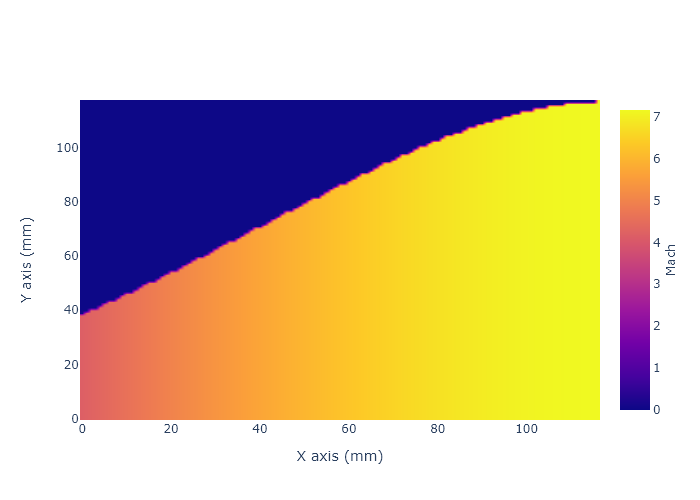
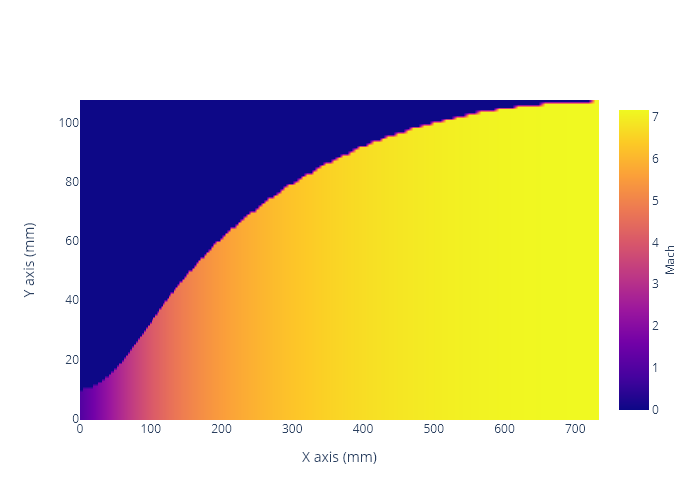
Adds 'x' and 'y' coordinates for the heatmap

diff --git a/nozzle.py b/nozzle.py
@@ -10,7 +10,7 @@ Definição inicial de constantes
 
 GAMMA [-]: Razão de calores específicos do gás
 M_TEST [-]: Número de Mach na seção de testes
-Y_0 [-]: Raio na garganta do bocal, normalizado pelo comprimento do bocal
+Y_0 [mm]: Raio na garganta do bocal
 """
 
 GAMMA = 1.4
@@ -58,15 +58,22 @@ def main():
     # plt.yticks(np.arange(-y_final_curve[-1]*1.25, y_final_curve[-1]*1.25, 5))
     plt.show()
 
+    throat_index = np.where(y_initial_curve == 10)[0][0]
+
     # Quasi Unidimensional
-    graph_y_points = list(float_range(0, max(y_final_curve),max(y_final_curve)/len(y_final_curve)))
+    graph_y_points = list(float_range(0, max(y_final_curve), max(y_final_curve)/len(y_final_curve)))
     mach_matriz = []
     for i in range(len(graph_y_points)):
-        mach_matriz.append(add_line_on_quasi_graph( graph_y_points[i], y_final_curve, len(x_final_curve)))
+        mach_matriz.append(add_line_on_quasi_graph(graph_y_points[i], 
+                                                   np.concatenate([y_initial_curve[throat_index:], y_final_curve]),
+                                                   len(np.concatenate([x_initial_curve[throat_index:], x_final_curve]))))
 
     scope = PlotlyScope()
     fig_quasi_unidimensional = make_subplots(rows=1, cols=1)
-    fig_quasi_unidimensional.add_trace(go.Heatmap(z=mach_matriz, colorbar=dict(title='Mach', titleside='right'), connectgaps=True, zsmooth='best'), 1, 1)
+    fig_quasi_unidimensional.add_trace(go.Heatmap(z=mach_matriz,
+                                                  x=np.concatenate([x_initial_curve[throat_index:], x_final_curve]),
+                                                  y=graph_y_points,
+                                                  colorbar=dict(title='Mach', titleside='right'), connectgaps=True, zsmooth='best'), 1, 1)
     fig_quasi_unidimensional.update
     fig_quasi_unidimensional.update_yaxes(title_text="Y axis (mm)", row=1, col=1)
     fig_quasi_unidimensional.update_xaxes(title_text="X axis (mm)", row=1, col=1)
@@ -180,7 +187,8 @@ def foelsch(y_0, theta_1, v_1, v_test, M_1):
 
     return (x_array, y_array)
 
-def M_from_y(y_1, y_0 = Y_0, gamma=1.4):
+
+def M_from_y(y_1, y_0=Y_0, gamma=1.4):
     """
     Calcula o número de Mach dado o x em relação ao ponto inicial em mm,
     de forma iterativa. Assume-se intervalos para o número de Mach,
@@ -216,8 +224,6 @@ def M_from_y(y_1, y_0 = Y_0, gamma=1.4):
                 upper_boundary = M
                 break
             previous_est = current_est
-
-
 
 
 def M_from_v(v_target, gamma=1.4):
@@ -256,6 +262,7 @@ def M_from_v(v_target, gamma=1.4):
                 break
             previous_est = current_est
 
+
 def add_line_on_quasi_graph(graph_y_point, y_curve, index):
     graph_line = []
     for _, y_point in enumerate(y_curve):
@@ -263,15 +270,15 @@ def add_line_on_quasi_graph(graph_y_point, y_curve, index):
             graph_line.append(0)
         else:
             graph_line.append(M_from_y(y_point))
-    
+
     return graph_line
 
 
-
 def float_range(start, stop, step):
-  while start < stop:
-    yield float(start)
-    start += decimal.Decimal(step)
+    while start < stop:
+        yield float(start)
+        start += decimal.Decimal(step)
+
 
 if __name__ == "__main__":
     main()
